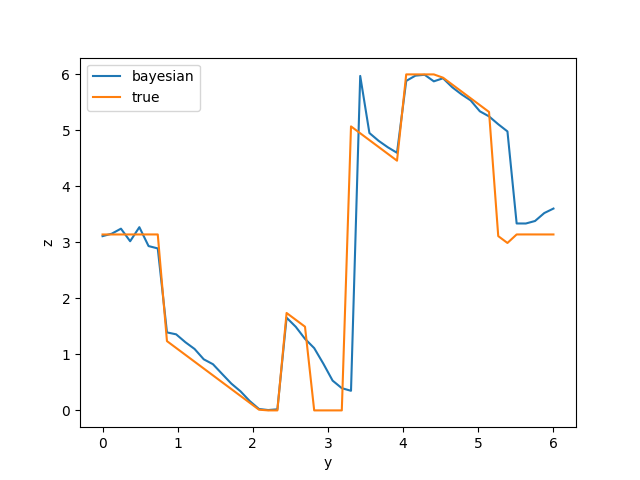
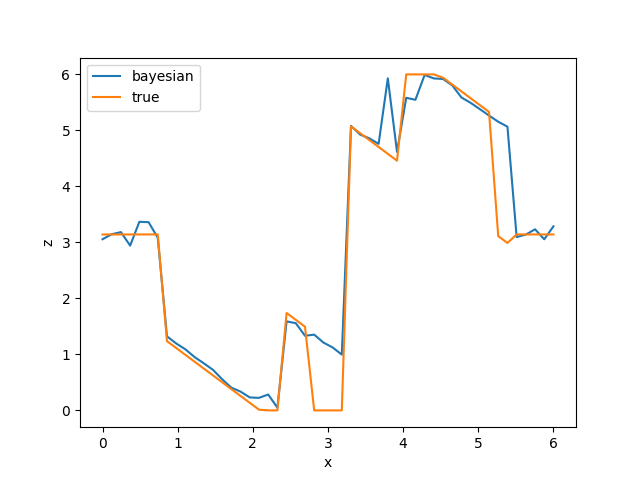
update symbols

diff --git a/experiment_report.tex b/experiment_report.tex
@@ -9,15 +9,15 @@
 \begin{document}
 \maketitle
 \section{Experiment 1}
-Using Contextual BO to find the maximal value of $f(x,y)$ for given $y$.
+Using Contextual BO to find the maximal value of $f(x,a)$ for given $x$.
 \begin{equation}\label{eq:f}
-    f(x,y) = \cos(2 x) \cos(y) + \sin(x)
+    f(x,a) = \cos(2 x) \cos(a) + \sin(x)
 \end{equation}
 Choosing $x,y \in [0,6]$.
-In this experiment, $x$ is treated as task while $y$ is treated
+In this experiment, $x$ is treated as task while $a$ is treated
 as action.
 
-Our goal is to provide a surrogate model of $z=g(x)=\arg\max_{y} f(x,y)$.
+Our goal is to provide a surrogate model of $z=g(x)=\arg\max_{a} f(x,a)$.
 The exact solution is non-continuous, which means that it is very hard to estimate $z=g(x)$ at the
 non-continuous points. Therefore, we need to sample more points in these places.
 Bayesian optimization accomplishes this goal,
@@ -43,7 +43,7 @@ which can be verified by the histogram of samples $x$.
 Using the same object function but the adopted action should
 satisfy the constraints.
 \begin{equation}
-    \cos(x)  \cos(y) - \sin(x) \sin(y) + 0.5 \leq 0    
+    \cos(x)  \cos(a) - \sin(x) \sin(a) + 0.5 \leq 0    
 \end{equation}
 \begin{figure}[!ht]
     \centering

diff --git a/example_2.py b/example_2.py
@@ -27,6 +27,7 @@ if __name__ == '__main__':
     parser.add_argument('--xi', type=float, default=0.0)
     parser.add_argument('--kernel_type', choices=['rbf', 'matern', 'rq'], default='matern')
     parser.add_argument('--n_restarts_optimizer', type=int, default=1)
+    parser.add_argument('--matern_nu', type=float, default=0.5)
     parser.add_argument('--opt_sampling', default=False, const=True, nargs='?')
     args = parser.parse_args()
 
@@ -49,7 +50,7 @@ if __name__ == '__main__':
     options.xi = args.xi
     options.gp_engine = 'sklearn'
     options.kernel_type = args.kernel_type
-    options.matern_nu = 0.5
+    options.matern_nu = args.matern_nu
     options.hp_samples = args.n_restarts_optimizer
     model = ProfileEI(function, domain, ctx_dim, options, eval_set=True, is_synthetic=False)
     init_pts = list(uniform_draw(domain, init_capital))
@@ -86,7 +87,7 @@ if __name__ == '__main__':
     plt.plot(ctx_array, action, label='bayesian')
     plt.plot(ctx_array, true_action, label='true')
     plt.legend()
-    plt.xlabel('y')
+    plt.xlabel('x')
     plt.ylabel('z')
     plt.savefig('build/cbo_2.png')
     plt.show()
